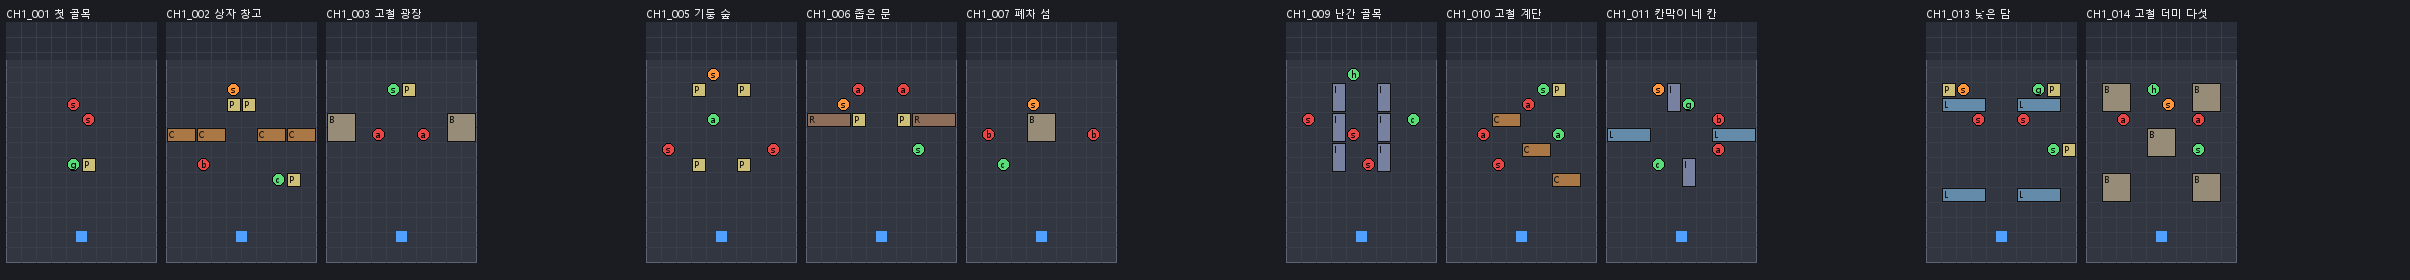
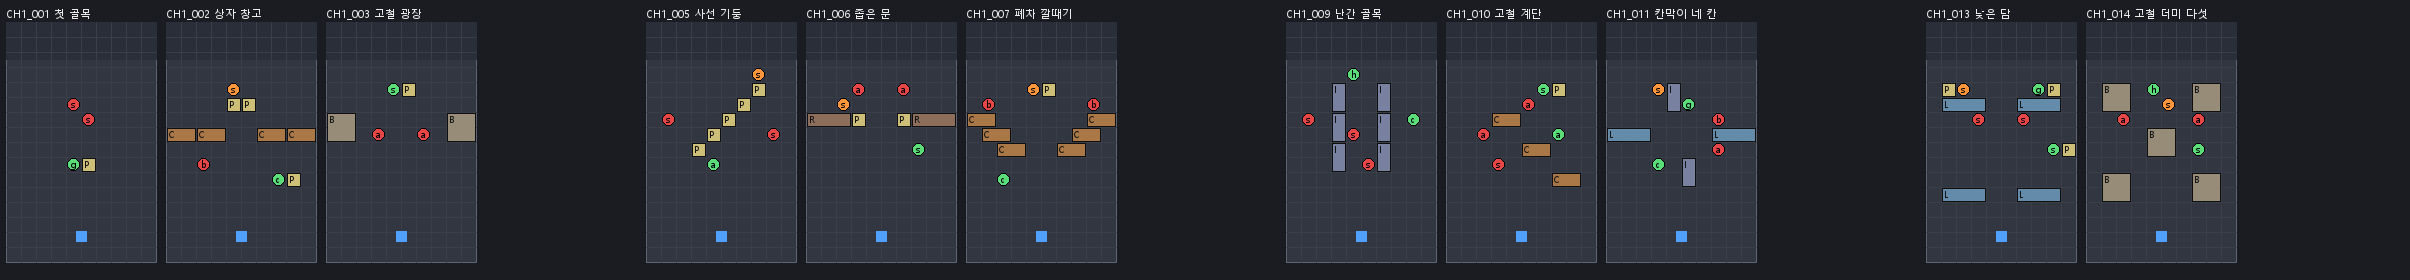
키 큰 물건 뒤에 선 몸이 보이게(반투명) · 1챕터 사선 · 깔때기 모양 · 배치 지침에 모양 · 키 큰 것 규칙
- BattleDirector.Occlusion: 발이 기둥 · 덩어리 · 간판 · 되튕기는 벽의 솟은 그림 안에 들어가면 그 물건을 0.42 로 낮춘다(판정은 그대로)
- 1-05 사선 담(/) — 낮은 블록 넷 + 끝 기둥 · 1-07 폐차 깔때기(\ /) — 상자가 가운데로 좁혀 든다
- ROOM_DESIGN_BRIEF: 물건은 역할 · 모양(// 모양: 줄)으로, 지나가는 길은 낮은 것으로, 키 큰 것은 뒤로 지나갈 일이 적은 자리로

diff --git a/Assets/Scripts/Module/InGame/BattleDirector.Occlusion.cs b/Assets/Scripts/Module/InGame/BattleDirector.Occlusion.cs
@@ -1,0 +1,57 @@
+using UnityEngine;
+
+namespace Game.Module.InGame
+{
+    /// <summary>
+    /// 키 큰 물건 뒤에 선 몸이 보이게 — 물건을 반투명으로 (2026-10-07 PD 「2D 라서 위로 긴 것들이 애매하다 …
+    /// 지나가야 될 것 같은데 막히고 느낌이 이상하다」).
+    ///
+    /// ── 무엇이 이상했나 ──────────────────────────────────────
+    /// 쿼터뷰라 기둥 그림은 발자국(막히는 칸, 72 x 72)보다 위로 94 px 더 솟는다. 그 솟은 부분은 **바닥 위에 그려진 그림일 뿐**
+    /// 실제로는 지나갈 수 있는 자리다. 그런데 몸이 그 뒤로 들어가면 통째로 가려져, 「막혀 있다」로 보이거나
+    /// 적이 어디 있는지 안 보였다.
+    ///
+    /// ── 어떻게 ────────────────────────────────────────────────
+    /// 몸(나 · 적)의 발이 물건의 **솟은 부분 안**(발자국 바로 위 칸)에 들어가면 그 물건을 반투명으로 낮춘다.
+    /// 나가면 0.15초에 걸쳐 돌아온다. 막힘 · 탄 판정은 그대로다 — 그림만 바뀐다.
+    /// 2D 쿼터뷰 게임이 흔히 쓰는 방법이다(나무 · 건물 뒤에 들어가면 비친다).
+    /// </summary>
+    public sealed partial class BattleDirector
+    {
+        private const float OccludeAlpha = 0.42f;
+        private const float OccludeFadeSpeed = 7f;   // 1/초 — 0.15초 안팎
+
+        private static bool IsTallStatic(string kind)
+            => kind == "PILLAR" || kind == "BULK" || kind == "PROP_TALL" || kind == "RAIL"
+            || kind == "RICOCHET_WALL" || kind == "DIVIDER";
+
+        /// <summary>매 프레임 — `SortDepth` 다음에 부른다.</summary>
+        private void TickOcclusion(float dt)
+        {
+            for (int i = 0; i < _obstacles.Count; i++)
+            {
+                var o = _obstacles[i];
+                if (o.Img == null || !IsTallStatic(o.Kind)) continue;
+                float rise = ObstacleRise.TryGetValue(o.Kind, out var r) ? r : 0f;
+                if (rise <= 0f) continue;
+                // 솟은 부분 — 발자국 윗변에서 위로 rise 만큼(방 좌표는 위가 +y)
+                var art = new Rect(o.ShotBounds.xMin, o.ShotBounds.yMax, o.ShotBounds.width, rise);
+                bool hidden = Behind(_ghost, art) || Behind(_host, art);
+                for (int k = 0; !hidden && k < _enemies.Count; k++) hidden = Behind(_enemies[k], art);
+
+                var c = o.Img.color;
+                float want = (hidden ? OccludeAlpha : 1f) * o.BaseColor.a;
+                if (Mathf.Abs(c.a - want) < 0.005f) continue;
+                c.a = Mathf.MoveTowards(c.a, want, OccludeFadeSpeed * dt);
+                o.Img.color = c;
+            }
+        }
+
+        private bool Behind(Unit u, Rect art)
+        {
+            if (u == null || !u.IsAlive || !u.gameObject.activeSelf) return false;
+            var foot = new Vector2(u.Position.x, u.Position.y - FootDrop(u));
+            return art.Contains(foot);
+        }
+    }
+}

diff --git a/Assets/Scripts/Module/InGame/BattleDirector.cs b/Assets/Scripts/Module/InGame/BattleDirector.cs
@@ -3278,6 +3278,7 @@ namespace Game.Module.InGame
             TickGimmicks(dt);     // 통 심지 · 벽 포탑
             TickHazards(dt);
             SortDepth();          // 이동이 끝난 뒤에 앞뒤를 다시 정한다
+            TickOcclusion(dt);    // 키 큰 물건 뒤에 선 몸이 보이게 (BattleDirector.Occlusion)
             TickDamageTexts(dt);
             TickGoldPiles(dt);
             for (int i = 0; i < _impacts.Count; i++) _impacts[i].Tick(dt);

diff --git a/Projects/AVSR/Rooms/ROOM_DESIGN_BRIEF.md b/Projects/AVSR/Rooms/ROOM_DESIGN_BRIEF.md
@@ -90,6 +90,14 @@
 - 좌우 대칭을 기본으로 하되, 방마다 **뼈대가 달라야** 한다 — 기둥 숲 · 가로 담 · 가운데 섬 · 양옆 골 · 십자로 · 계단식 · 광장 · 미로. 한 챕터에서 같은 뼈대를 두 번 쓰지 않는다.
 - 엄폐는 「숨는 자리」와 「쏘는 자리」가 짝을 이뤄야 한다. 장식처럼 흩뿌리지 않는다.
 
+**물건은 역할로 · 모양으로 (PD 2026-10-07)**
+- 물건 하나하나에 역할이 있어야 한다 — 길(적이 지나갈 자리) · 엄폐(숨는 자리 ↔ 쏘는 자리) · 타이밍 · 위험 · 이용. 방마다 `// 역할:` 줄로 적는다. 장식으로 흩뿌리지 않는다.
+- 뼈대에 **모양**을 쓴다 — 사선(`/` `\`) · 깔때기(`\ /`) · 나란한 골(`| |`) · 가로 담 · 섬 · 계단. 방마다 `// 모양:` 줄로 적는다. 한 챕터에서 같은 모양을 두 번 쓰지 않는다.
+- **키 큰 물건**(기둥 P · 덩어리 B · 간판 Q · 되튕기는 벽 W V)은 쿼터뷰라 그림이 발자국보다 위로 솟는다 — 솟은 부분은 지나갈 수 있는데 막힌 것처럼 보인다.
+  · 방 한가운데의 「지나가는 길」은 **낮은 것**(상자 C · 낮은 벽 L · 바리케이드 R · 난간 I)으로 만든다.
+  · 키 큰 것은 원거리 적의 엄폐 · 방 가장자리 · 모양의 끝처럼 **뒤로 지나갈 일이 적은 자리**에 둔다.
+  · 몸이 키 큰 것의 솟은 부분 뒤에 들어가면 게임이 그 물건을 반투명으로 낮춘다(`BattleDirector.Occlusion`).
+
 **적 자리**
 - 원거리(scrapgunner · roadwarden · coilwalker · 쏘는 몸)는 **키 큰 엄폐**(P B I W V Q) 1.6칸 안에 세운다(검사가 경고한다). 위쪽 2/3 에 둔다.
 - 근접(bat · skeleton · actor_enforcer · 붙는 몸)은 가운데~아래쪽에 둬 먼저 다가오게 한다. 입구에서 4.5칸 안에는 못 세운다(오류).
